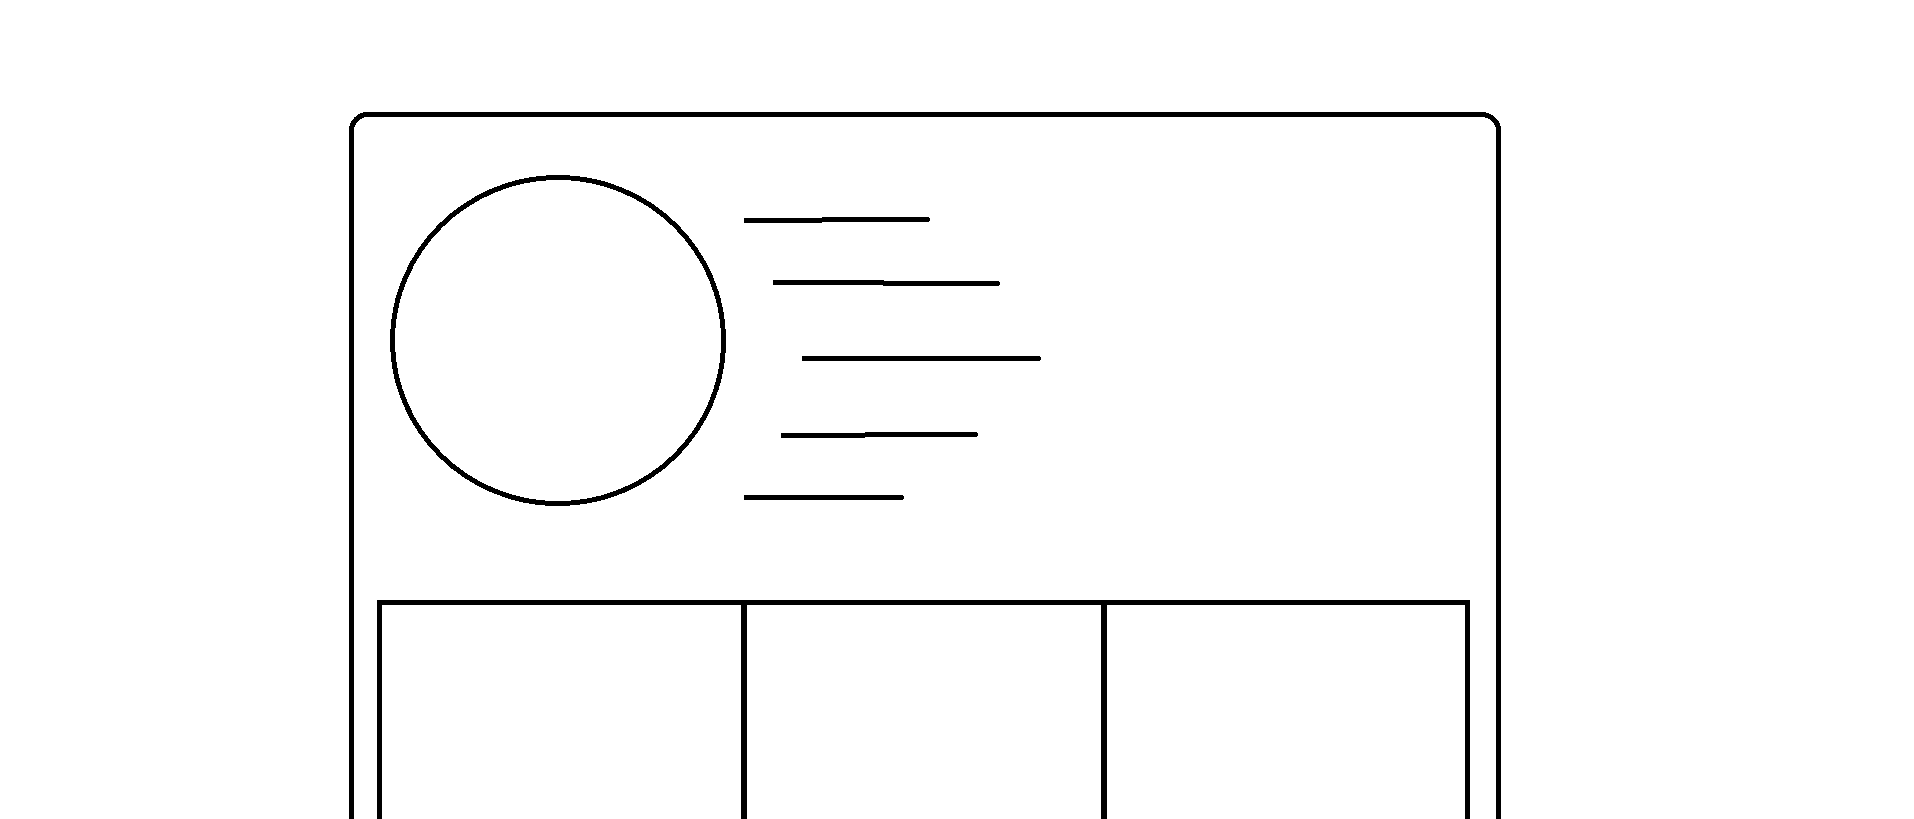
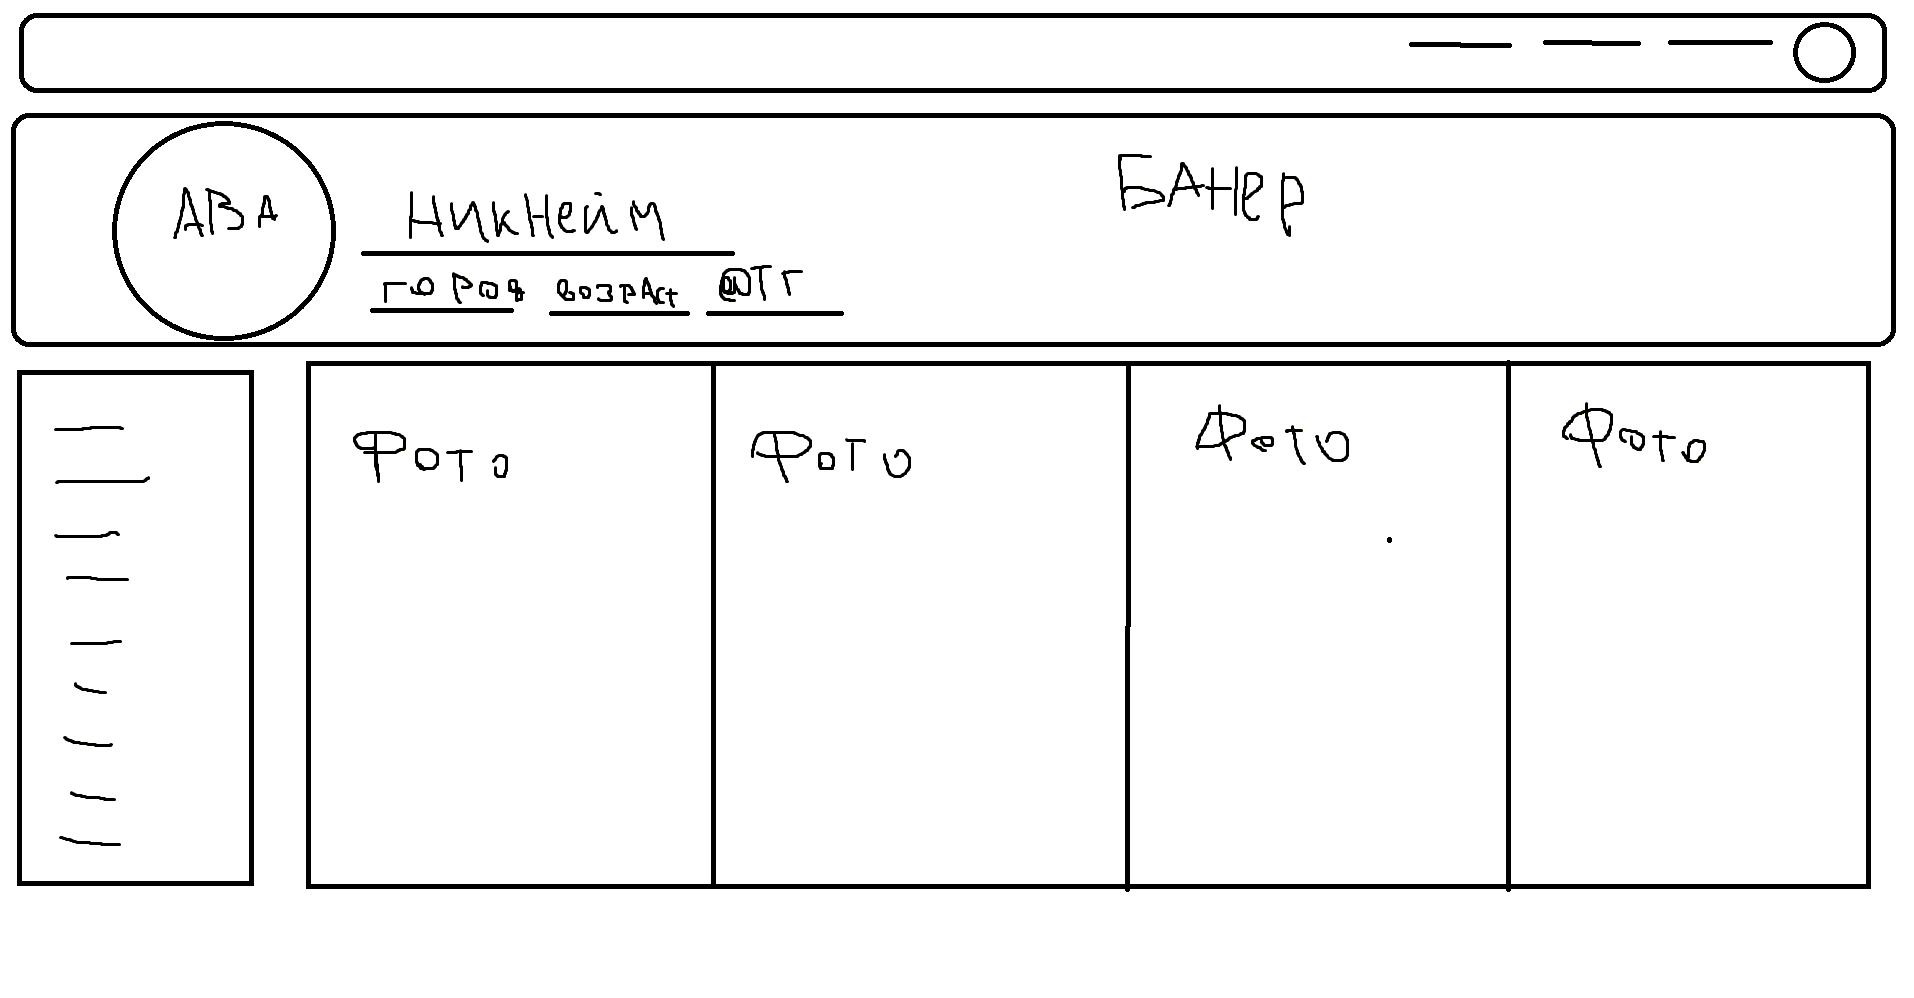
profile page

diff --git a/css/profile.css b/css/profile.css
@@ -1,0 +1,87 @@
+@font-face {
+    font-family: 'Arian';
+    src: url('../fonts/Arian-Bold.woff2') format('woff2');
+    font-weight: bold;
+    font-style: normal;
+    font-display: swap;
+}
+
+
+
+* {
+    margin: 0px;
+    padding: 0px;
+}
+
+
+body{
+    font-family: 'Arian';
+    background-color: rgb(18, 18, 18);
+}
+
+
+.buttonsArea a{
+    text-decoration: none;
+    cursor: pointer;
+    color: rgb(157, 157, 157);
+}
+
+
+
+.header{
+    padding: 15px;
+    margin: 10px 10px 0px 10px;
+    border-radius: 5px;
+    /* background-color: rgb(39, 38, 38); */
+}
+
+.buttonsArea{
+    display: flex;
+    justify-content: right;
+    margin: 0px 100px 0px auto;
+
+    gap: 15px;
+}
+
+.baner{
+    display: flex;
+    width: auto;
+    height: 200px;
+    padding: 20px;
+    margin:5px 100px 50px 100px;
+    border-radius: 5px;
+
+
+    background-image: url("https://i1.sndcdn.com/visuals-001366235901-OLEuIT-t2480x520.jpg");
+    background-size: 100% 100%;
+    background-repeat: no-repeat;
+}
+
+
+.avatar{
+    width: 200px;
+    height: 200px;
+    border-radius: 100px;
+    background-image: url(https://i1.sndcdn.com/avatars-B7dapLzf1OPS1chF-YSG0Ww-t500x500.jpg);
+    background-size: 100% 100%;
+}
+
+.description{
+    display: inline;
+    width: max-content;
+    height: auto;
+    margin: 50px auto auto 30px;
+    padding: 20px;
+    border-radius: 10px;
+
+
+    color: rgb(186, 186, 186);
+    background-color: rgb(18, 18, 18);
+
+}
+
+#nickname{
+    font-size: 24px;
+    width: max-content;
+    margin: 0px auto 10px auto;
+}

diff --git a/profile.html b/profile.html
@@ -1,0 +1,37 @@
+<!DOCTYPE html>
+<html lang="en">
+<head>
+    <meta charset="UTF-8">
+    <meta name="viewport" content="width=device-width, initial-scale=1.0">
+    <title>Profile</title>
+    <link rel="stylesheet" href="./css/profile.css">
+</head>
+<body>
+    <div class = "header">
+        <div class="buttonsArea">
+            <a href="link" class="headButton">кнопка</a>
+            <a href="link" class="headButton">кнопка</a>
+            <a href="link" class="headButton">кнопка</a>
+        </div>
+    </div>
+    <div class="baner">
+        <div class="avatar">
+        </div>
+        <div class="description">
+
+            <div class="descriptiomAtribute" id="nickname">
+                petuh_ebuchi
+            </div>
+
+            <spanclass="descriptiomAtribute" id="region">
+                Россия - Череповец
+            </span>
+
+            <span class="descriptiomAtribute" id="tgTag">
+                @petuh_ebuchi
+            </span>
+        </div>
+
+    </div>
+</body>
+</html>

diff --git a/css/mainpage.css b/css/mainpage.css
@@ -79,15 +79,15 @@ a{
 .main-text-area{
     display: flex;
     flex-direction: column;
-    margin-top: 50px;
     align-items: center;
 }
 
 .main-text{
     position: relative;
     display: block;
-    margin-top: 5px;
     text-align: center;
+    margin-top: 45px;
+
 }
 
 
